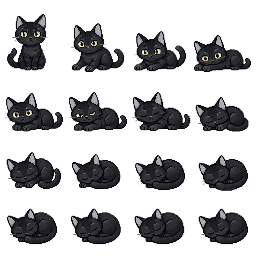
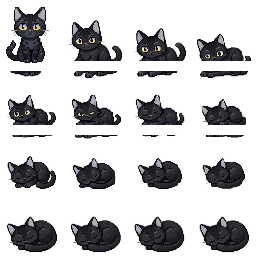
fix(cat,kitty): repair clipped nap sprite frames; Kitty Help 12 sources with AMR priority
- repair-nap-sheets.mjs: fit falling-asleep frames inside their 64px cells
  (was full-bleed/clipped at top+bottom; Siam had giant-face zoom crops),
  re-anchor to a shared ground line, pin frame 1 to the idle standing pose
- Kitty Help: source pick cap 8 -> 12 (prompt + slice + tokens), AMR D1
  matches pooled 10 -> 12, SOP candidates capped 14 -> 6 to stop SOP
  crowding out AMR/email templates, prompt prefers AMR matches

diff --git a/src/hooks/use-kitty-help.ts b/src/hooks/use-kitty-help.ts
@@ -24,7 +24,7 @@ import type { CatFormData } from '@/hooks/use-cat-assistant';
  *     Notes extraction prompt (fields are applied through the same
  *     authoritative path as an explicit cloud Parse).
  *   Stage 2 "Picking sources" → ≤50 pre-selected knowledge titles go to the
- *     model; it picks up to 8.
+ *     model; it picks up to 12.
  *   Stage 3 "Reading sources" → the picked sources' full content is appended;
  *     the model writes the final bilingual resolution.
  *
@@ -72,7 +72,7 @@ function buildKittySystem(): string {
     'ticket fields and a bilingual whole-call TLDR. The exact JSON contract travels inside the Task 1 user message.',
     '',
     '## Task 2 — PICK KNOWLEDGE SOURCES',
-    'Given numbered candidate knowledge titles (id [KIND · ORIGIN] title), pick the 1–8 sources most likely',
+    'Given numbered candidate knowledge titles (id [KIND · ORIGIN] title), pick the 1–12 sources most likely',
     'needed to resolve THIS customer\'s issue. Reply ONLY: {"picks":[{"id":"K07","reason":"short why"}]}',
     '',
     '## Task 3 — FINAL RESOLUTION',
@@ -238,7 +238,7 @@ export function useKittyHelp(args: {
       applyRef.current(fields, tldr);
 
       // ---------------------------------------------------------------
-      // Stage 2 — preselect ≤50 knowledge titles, model picks ≤8.
+      // Stage 2 — preselect ≤50 knowledge titles, model picks ≤12.
       // ---------------------------------------------------------------
       setStage({ label: 'Scanning knowledge sources…', detail: 'Spec sheets · FAQs · News · Error codes · SOP' });
       const { query } = buildQueryContext();
@@ -269,17 +269,17 @@ export function useKittyHelp(args: {
           'TASK 2 — PICK KNOWLEDGE SOURCES',
           `Candidate sources (${candidates.length}):`,
           candidateBlock,
-          'Pick the up-to-8 sources most likely needed for THIS conversation. Reply ONLY: {"picks":[{"id":"K07","reason":"short why"}]}',
+          'Pick the up-to-12 sources most likely needed for THIS conversation. Prefer AMR email templates when they match the issue. Reply ONLY: {"picks":[{"id":"K07","reason":"short why"}]}',
         ].join('\n'),
       });
-      const reply2 = await kittyChat(messages, 512);
+      const reply2 = await kittyChat(messages, 768);
       messages.push({ role: 'assistant', content: reply2 });
 
       const parsed2 = extractJsonLoose(reply2) as { picks?: Array<{ id?: string; reason?: string }> } | null;
       const pickedIds = (parsed2?.picks ?? [])
         .map((p) => (typeof p?.id === 'string' ? p.id.trim().toUpperCase() : ''))
         .filter(Boolean)
-        .slice(0, 8);
+        .slice(0, 12);
       const picked = pickedIds
         .map((id) => candidates.find((c) => c.id === id))
         .filter((c): c is KittyCandidate => Boolean(c));

diff --git a/src/lib/kitty-help.ts b/src/lib/kitty-help.ts
@@ -8,7 +8,7 @@
  *            uses, applied to the live transcript (fields land in the form).
  *   Task 2 — the agent's pre-selected knowledge candidates (≤50 titles
  *            spanning matched spec sheets, FAQs, News & Updates, error
- *            codes and the SOP handbook) are listed; the model picks ≤8.
+ *            codes and the SOP handbook) are listed; the model picks ≤12.
  *   Task 3 — the full content of the picked sources is appended; the model
  *            writes the final bilingual resolution with cited sources.
  *
@@ -244,7 +244,7 @@ export async function collectKittyCandidates(query: string, max = 50): Promise<K
     const ranked = rankEntries(
       query,
       amrDb.map(entryFromAmrTemplate),
-      10,
+      12,
     );
     for (const e of ranked) {
       const t = byId.get(e.id);
@@ -261,7 +261,7 @@ export async function collectKittyCandidates(query: string, max = 50): Promise<K
   // SOP handbook sections.
   const sections = await safe(loadSopSections());
   if (sections) {
-    for (const hit of scoreKeywordCandidates(sections, query).slice(0, 14)) {
+    for (const hit of scoreKeywordCandidates(sections, query).slice(0, 6)) {
       pooled.push({
         kind: 'sop',
         title: hit.section.title,

diff --git a/src/pages/TicketNotesPage/TicketNotesPage.tsx b/src/pages/TicketNotesPage/TicketNotesPage.tsx
@@ -1684,7 +1684,7 @@ Additional information (if needed): ${additional}`;
 
   // -------------------------------------------------------------------------
   //  Kitty Help — double-click the cat mascot: a persistent cloud-LLM
-  //  conversation that fills the notes (task 1), picks ≤8 knowledge sources
+  //  conversation that fills the notes (task 1), picks ≤12 knowledge sources
   //  from ≤50 pre-matched titles (task 2), then reads their full content and
   //  writes a bilingual customer-facing resolution with cited sources
   //  (task 3). Messages are append-only so provider KV-cache prefixes hit.
